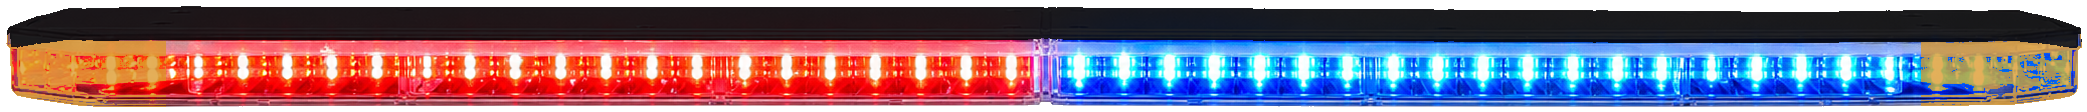
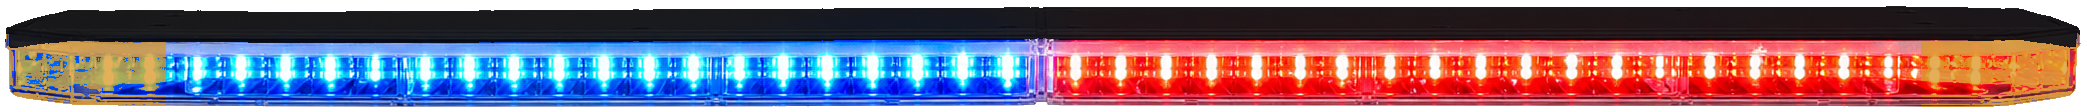
Seat truck Front ALGT on cab roof and flip MAX bar red/blue
F-150 and Silverado Front use measured per-vehicle roof Y so the
53" bar sits on the cab metal, not the windshield. ILS visor stays
on glass. Flip fx_algt_max.png so Front reads red driver / blue passenger.

diff --git a/visualizer/index.html b/visualizer/index.html
@@ -197,7 +197,7 @@ select:focus,input[type=text]:focus{box-shadow:0 0 0 2px color-mix(in srgb,var(-
 /* Multi-canvas visualizer. Catalog is shared FedSig SKUs (no invented lights).
    Durango mounts stay as previously signed; trucks have their own snaps. */
 var ASSET_V="ppv1";
-var FX_V="smk3";
+var FX_V="max4";
 var DURANGO_VIEWS=[
   {id:"front",label:"Front",imgW:"durango_front.png",imgB:"durango_front_black.png"},
   {id:"rear",label:"Rear",imgW:"durango_rear.png",imgB:"durango_rear_black.png"},
@@ -219,6 +219,7 @@ var TRUCK_VIEWS_F150=[
   {id:"right",label:"Right",imgW:"f150_right.png",imgB:"f150_right_black.png"}
 ];
 var TRUCK_MOUNTS={
+  /* front "roof" Y here is a placeholder — VEHICLES override per plate. */
   front:[[0.5,0.24,"ILS visor"],[0.5,0.175,"roof"],[0.5,0.50,"grille"],[0.38,0.50,"grille L"],[0.62,0.50,"grille R"],[0.5,0.68,"pushbar/lower"],[0.14,0.36,"mirror L"],[0.86,0.36,"mirror R"],[0.26,0.70,"bumper L"],[0.38,0.70,"bumper L2"],[0.62,0.70,"bumper R2"],[0.74,0.70,"bumper R"]],
   rear:[[0.5,0.24,"hatch ILS"],[0.5,0.48,"hatch mid"],[0.5,0.52,"hatch stick"],[0.44,0.65,"hatch plate L"],[0.56,0.65,"hatch plate R"],[0.5,0.16,"spoiler"],[0.22,0.68,"bumper L"],[0.32,0.68,"bumper L2"],[0.42,0.68,"bumper L3"],[0.58,0.68,"bumper R3"],[0.68,0.68,"bumper R2"],[0.78,0.68,"bumper R"]],
   left:[[0.45,0.375,"roofline"],[0.24,0.42,"mirror"],[0.78,0.48,"quarter"]],
@@ -268,10 +269,29 @@ var TRUCK_MULTI={
   },
   "DR6-RBW":{left:[[0.50,0.48,0]],right:[[0.50,0.48,0]]}
 };
+/* Front roof contact (ALGT sitTransform ty=-100 = sprite bottom).
+   Measured on the 1024² plates — do not share one Y across trucks:
+   F-150 white roof peak y=144 (0.141), glass starts y=170 (0.166).
+   Silverado white roof peak y=166 (0.162), glass starts y=188 (0.184).
+   Shared 0.175 sat in F-150 glass. ILS visor stays 0.24 (glass). */
+function withFrontRoof(mounts, roofY){
+  var m=JSON.parse(JSON.stringify(mounts));
+  m.front=m.front.map(function(pt){ return pt[2]==="roof"?[pt[0],roofY,pt[2]]:pt; });
+  return m;
+}
+function withFrontRoofDefaults(defaults, roofY){
+  var d=JSON.parse(JSON.stringify(defaults));
+  ["ALGT","ALGT53JX-P3LB"].forEach(function(sku){
+    if(!d[sku]) return;
+    d[sku].front=[0.5,roofY,0];
+    d[sku]._=[0.5,roofY,0];
+  });
+  return d;
+}
 var VEHICLES={
   durango:{label:"2024 Dodge Durango Pursuit",short:"Durango",views:DURANGO_VIEWS},
-  silverado:{label:"Chevrolet Silverado PPV",short:"Silverado PPV",views:TRUCK_VIEWS_SILVERADO,mounts:TRUCK_MOUNTS,defaults:TRUCK_DEFAULTS,clicks:TRUCK_CLICKS,multi:TRUCK_MULTI},
-  f150:{label:"Ford F-150 PPV",short:"F-150 PPV",views:TRUCK_VIEWS_F150,mounts:TRUCK_MOUNTS,defaults:TRUCK_DEFAULTS,clicks:TRUCK_CLICKS,multi:TRUCK_MULTI}
+  silverado:{label:"Chevrolet Silverado PPV",short:"Silverado PPV",views:TRUCK_VIEWS_SILVERADO,mounts:withFrontRoof(TRUCK_MOUNTS,0.163),defaults:withFrontRoofDefaults(TRUCK_DEFAULTS,0.163),clicks:TRUCK_CLICKS,multi:TRUCK_MULTI},
+  f150:{label:"Ford F-150 PPV",short:"F-150 PPV",views:TRUCK_VIEWS_F150,mounts:withFrontRoof(TRUCK_MOUNTS,0.144),defaults:withFrontRoofDefaults(TRUCK_DEFAULTS,0.144),clicks:TRUCK_CLICKS,multi:TRUCK_MULTI}
 };
 var vehicleId="durango";
 function veh(){ return VEHICLES[vehicleId]||VEHICLES.durango; }
@@ -727,6 +747,9 @@ function snapTo(x,y,free,skipId,sku){
   // only inside SNAP_CENTER_X (~3%) — never a 18–42% steal to 0.5.
   var bestM=null, bestScore=1e9;
   mounts.forEach(function(m){
+    var name=m[2]||"";
+    /* Roof bars never seat on the ILS visor / glass slot. */
+    if(isRoofBar(sku) && /ILS|visor/i.test(name)) return;
     var dx=Math.abs(x-m[0]), dy=Math.abs(y-m[1]);
     if(dy>=SNAP_BAND_Y) return;
     var score=dy+mountPrefer(m, sku)+dx*0.01;
